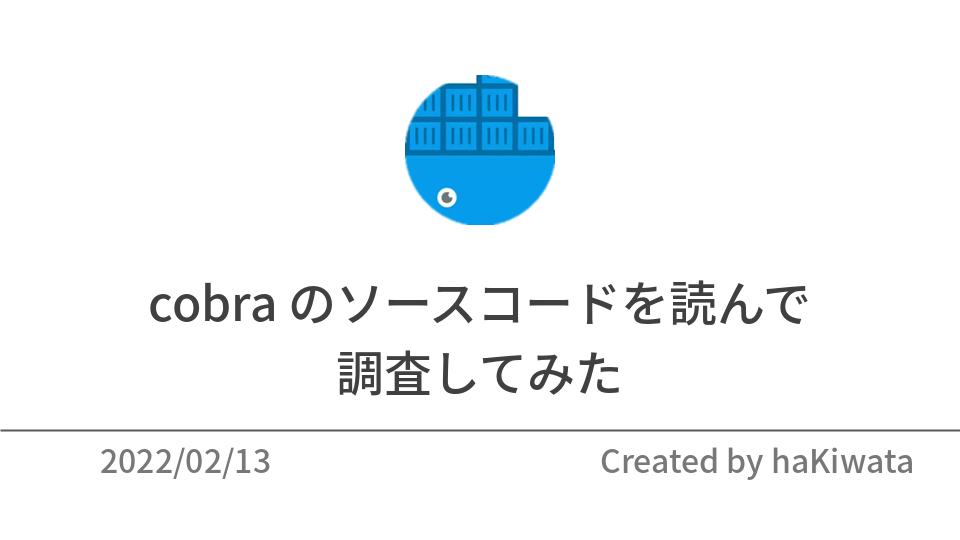
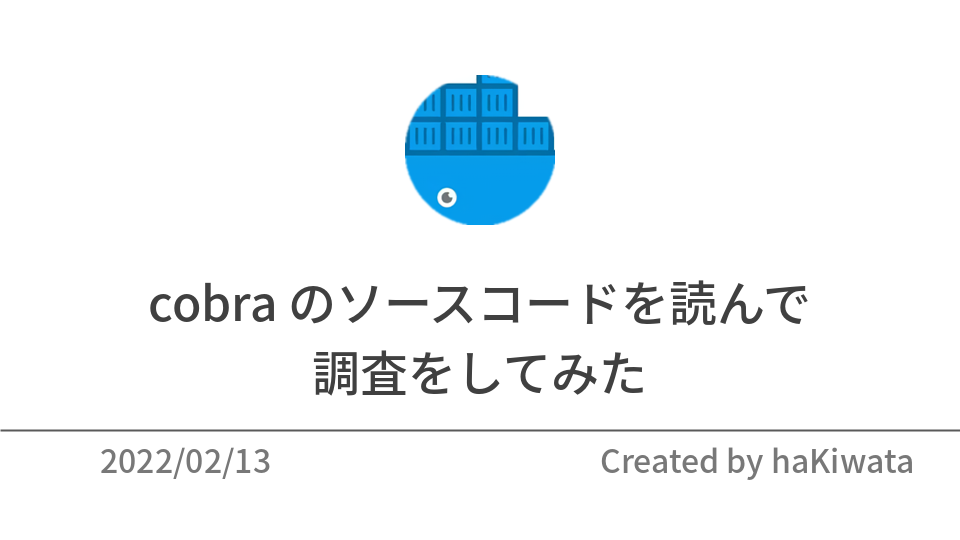
deploy: b7bdc9d21cec0bf29530ab4366555148b691aa41

Changed region(s): [[0.3125, 0.6519, 0.6875, 0.7407]]

diff --git a/post/20220213/index.html b/post/20220213/index.html
@@ -1,8 +1,8 @@
 <!doctype html><html lang=en><head><meta charset=utf-8><meta name=viewport content="width=device-width,initial-scale=1"><meta name=generator content="Hugo 0.83.1"><title>cobra のソースコードを読んで
-調査してみた - haKiwata</title><meta name=description content="概要  こんにちは :) 最近、Golang を書くことにハマっています。その一環で cobra と viper を使って簡単な CLI アプリケーション (gngc) を作ってみました。このアプリケーションを実装する際、様々なネットの記事、公式ドキュメント、そして README.md を読んでみました。しかし、どの実装方法を選択すればわからない場面や出力させたくないエラーメッセージを消す方法がわからない場面などに遭遇することがありました。その際、内部のソースコードを読んで処理の流れや設定の意味などを大まかに調査してみたので、その記録を簡単に残したいと思います。  調査内容  調査内容は以下の 3 点です。   CLI アプリケーションが実行されるまでの流れに関して rootCmd.Run と rootCmd.RunE の違いに関して cobra がデフォルトで出すエラーメッセージを出さない方法に関して  調査内容 1 (cobra の内部実装)  cobra を用いて実装した CLI アプリケーションが実行される大まかな流れを以下の画像のシーケンス図にまとめてみました。(シーケンス図の書き方は完全に正しくはありません &mldr;)  調査内容 2 (rootCmd.Run と rootCmd.RunE の違いに関して)  cobra でアプリケーションを実装する際、cmd/root.go に以下のような初期化を行います。その際、実際に実行されるコマンドは Run や RunE の箇所に関数を定義します。  var rootCmd = &cobra.Command{ Use: &#34;gngc&#34;, Short: &#34;Get and Notify GitHub Contributions&#34;, Long: &#34;A simple command line application to get GitHub contributions from GraphQL API and notify them to IFTTT."><link rel="shortcut icon" href=https://hakiwata.jp/img/images/favicon.ico><link rel=stylesheet href=https://hakiwata.jp/css/ui.css><link rel=stylesheet href=https://hakiwata.jp/css/main.css><link rel=stylesheet href="https://fonts.googleapis.com/css?family=Fira+Mono|Lato|Raleway"><meta property="og:title" content="cobra のソースコードを読んで
-調査してみた"><meta property="og:description" content="概要  こんにちは :) 最近、Golang を書くことにハマっています。その一環で cobra と viper を使って簡単な CLI アプリケーション (gngc) を作ってみました。このアプリケーションを実装する際、様々なネットの記事、公式ドキュメント、そして README.md を読んでみました。しかし、どの実装方法を選択すればわからない場面や出力させたくないエラーメッセージを消す方法がわからない場面などに遭遇することがありました。その際、内部のソースコードを読んで処理の流れや設定の意味などを大まかに調査してみたので、その記録を簡単に残したいと思います。  調査内容  調査内容は以下の 3 点です。   CLI アプリケーションが実行されるまでの流れに関して rootCmd.Run と rootCmd.RunE の違いに関して cobra がデフォルトで出すエラーメッセージを出さない方法に関して  調査内容 1 (cobra の内部実装)  cobra を用いて実装した CLI アプリケーションが実行される大まかな流れを以下の画像のシーケンス図にまとめてみました。(シーケンス図の書き方は完全に正しくはありません &mldr;)  調査内容 2 (rootCmd.Run と rootCmd.RunE の違いに関して)  cobra でアプリケーションを実装する際、cmd/root.go に以下のような初期化を行います。その際、実際に実行されるコマンドは Run や RunE の箇所に関数を定義します。  var rootCmd = &cobra.Command{ Use: &#34;gngc&#34;, Short: &#34;Get and Notify GitHub Contributions&#34;, Long: &#34;A simple command line application to get GitHub contributions from GraphQL API and notify them to IFTTT."><meta property="og:type" content="article"><meta property="og:url" content="https://hakiwata.jp/post/20220213/"><meta property="og:image" content="https://hakiwata.jp/"><meta property="article:section" content="post"><meta property="article:published_time" content="2022-02-12T17:02:25+00:00"><meta property="article:modified_time" content="2022-02-12T17:02:25+00:00"><meta name=twitter:card content="summary_large_image"><meta name=twitter:site content="@bilmnpvovqnmlid"><meta name=twitter:creator content="@bilmnpvovqnmlid"><meta property="twitter:image" content="https://hakiwata.jp/img/images/20220213.png"><meta property="og:title" content="cobra のソースコードを読んで
-調査してみた"><meta property="og:url" content="https://hakiwata.jp/post/20220213/"><meta property="og:image" content="https://hakiwata.jp/img/images/20220213.png"><meta property="og:description" content><script async src="https://www.googletagmanager.com/gtag/js?id=G-YXCYPL25QW"></script><script>var doNotTrack=!1;if(!doNotTrack){window.dataLayer=window.dataLayer||[];function gtag(){dataLayer.push(arguments)}gtag('js',new Date),gtag('config','G-YXCYPL25QW',{anonymize_ip:!1})}</script></head><body><header class="container no-print"><div class=u-header><nav class=bar><ul><li><a href=https://hakiwata.jp/><img class=icon-text src=https://hakiwata.jp/img/prev.svg></a></li><li><a href=https://hakiwata.jp/about>About</a></li><li><a href=https://hakiwata.jp/log>Log</a></li><li><a href=https://hakiwata.jp/post>Post</a></li><li><a href=https://hakiwata.jp/scraps>Scraps</a></li><li><a href=https://hakiwata.jp/tags>Tags</a></li></ul></nav></div></header><main class=container><article><header><hgroup id=brand><h1>cobra のソースコードを読んで
-調査してみた</h1><h5><time datetime="2022-02-12 17:02:25 +0000 UTC">Feb 12, 2022</time>
+調査をしてみた - haKiwata</title><meta name=description content="概要  こんにちは :) 最近、Golang を書くことにハマっています。その一環で cobra と viper を使って簡単な CLI アプリケーション (gngc) を作ってみました。このアプリケーションを実装する際、様々なネットの記事、公式ドキュメント、そして README.md を読んでみました。しかし、どの実装方法を選択すればわからない場面や出力させたくないエラーメッセージを消す方法がわからない場面などに遭遇することがありました。その際、内部のソースコードを読んで処理の流れや設定の意味などを大まかに調査してみたので、その記録を簡単に残したいと思います。  調査内容  調査内容は以下の 3 点です。   CLI アプリケーションが実行されるまでの流れに関して rootCmd.Run と rootCmd.RunE の違いに関して cobra がデフォルトで出すエラーメッセージを出さない方法に関して  調査内容 1 (cobra の内部実装)  cobra を用いて実装した CLI アプリケーションが実行される大まかな流れを以下の画像のシーケンス図にまとめてみました。(シーケンス図の書き方は完全に正しくはありません &mldr;)  調査内容 2 (rootCmd.Run と rootCmd.RunE の違いに関して)  cobra でアプリケーションを実装する際、cmd/root.go に以下のような初期化を行います。その際、実際に実行されるコマンドは Run や RunE の箇所に関数を定義します。  var rootCmd = &cobra.Command{ Use: &#34;gngc&#34;, Short: &#34;Get and Notify GitHub Contributions&#34;, Long: &#34;A simple command line application to get GitHub contributions from GraphQL API and notify them to IFTTT."><link rel="shortcut icon" href=https://hakiwata.jp/img/images/favicon.ico><link rel=stylesheet href=https://hakiwata.jp/css/ui.css><link rel=stylesheet href=https://hakiwata.jp/css/main.css><link rel=stylesheet href="https://fonts.googleapis.com/css?family=Fira+Mono|Lato|Raleway"><meta property="og:title" content="cobra のソースコードを読んで
+調査をしてみた"><meta property="og:description" content="概要  こんにちは :) 最近、Golang を書くことにハマっています。その一環で cobra と viper を使って簡単な CLI アプリケーション (gngc) を作ってみました。このアプリケーションを実装する際、様々なネットの記事、公式ドキュメント、そして README.md を読んでみました。しかし、どの実装方法を選択すればわからない場面や出力させたくないエラーメッセージを消す方法がわからない場面などに遭遇することがありました。その際、内部のソースコードを読んで処理の流れや設定の意味などを大まかに調査してみたので、その記録を簡単に残したいと思います。  調査内容  調査内容は以下の 3 点です。   CLI アプリケーションが実行されるまでの流れに関して rootCmd.Run と rootCmd.RunE の違いに関して cobra がデフォルトで出すエラーメッセージを出さない方法に関して  調査内容 1 (cobra の内部実装)  cobra を用いて実装した CLI アプリケーションが実行される大まかな流れを以下の画像のシーケンス図にまとめてみました。(シーケンス図の書き方は完全に正しくはありません &mldr;)  調査内容 2 (rootCmd.Run と rootCmd.RunE の違いに関して)  cobra でアプリケーションを実装する際、cmd/root.go に以下のような初期化を行います。その際、実際に実行されるコマンドは Run や RunE の箇所に関数を定義します。  var rootCmd = &cobra.Command{ Use: &#34;gngc&#34;, Short: &#34;Get and Notify GitHub Contributions&#34;, Long: &#34;A simple command line application to get GitHub contributions from GraphQL API and notify them to IFTTT."><meta property="og:type" content="article"><meta property="og:url" content="https://hakiwata.jp/post/20220213/"><meta property="og:image" content="https://hakiwata.jp/"><meta property="article:section" content="post"><meta property="article:published_time" content="2022-02-12T17:02:25+00:00"><meta property="article:modified_time" content="2022-02-12T17:02:25+00:00"><meta name=twitter:card content="summary_large_image"><meta name=twitter:site content="@bilmnpvovqnmlid"><meta name=twitter:creator content="@bilmnpvovqnmlid"><meta property="twitter:image" content="https://hakiwata.jp/img/images/20220213.png"><meta property="og:title" content="cobra のソースコードを読んで
+調査をしてみた"><meta property="og:url" content="https://hakiwata.jp/post/20220213/"><meta property="og:image" content="https://hakiwata.jp/img/images/20220213.png"><meta property="og:description" content><script async src="https://www.googletagmanager.com/gtag/js?id=G-YXCYPL25QW"></script><script>var doNotTrack=!1;if(!doNotTrack){window.dataLayer=window.dataLayer||[];function gtag(){dataLayer.push(arguments)}gtag('js',new Date),gtag('config','G-YXCYPL25QW',{anonymize_ip:!1})}</script></head><body><header class="container no-print"><div class=u-header><nav class=bar><ul><li><a href=https://hakiwata.jp/><img class=icon-text src=https://hakiwata.jp/img/prev.svg></a></li><li><a href=https://hakiwata.jp/about>About</a></li><li><a href=https://hakiwata.jp/log>Log</a></li><li><a href=https://hakiwata.jp/post>Post</a></li><li><a href=https://hakiwata.jp/scraps>Scraps</a></li><li><a href=https://hakiwata.jp/tags>Tags</a></li></ul></nav></div></header><main class=container><article><header><hgroup id=brand><h1>cobra のソースコードを読んで
+調査をしてみた</h1><h5><time datetime="2022-02-12 17:02:25 +0000 UTC">Feb 12, 2022</time>
 <span class=no-print>-
 <a href=https://hakiwata.jp/tags/golang>Golang</a>
 <a href=https://hakiwata.jp/tags/cobra>cobra</a>

diff --git a/post/20220131/index.html b/post/20220131/index.html
@@ -16,7 +16,7 @@
 <span></h5></hgroup><hr class=sep></header><h2 id=概要>概要</h2><ul><li>こんにちは :) 先日、1/27 ~ 1/28 に渡って開催された<a href="https://www.ieice.org/ken/program/index.php?tgs_regid=f301afe5515873af934c79186dd9daff49a4a8dd5003607cadecf0bef5630b43&tgid=IEICE-PN">フォトニックネットワーク研究会</a>で、この 1 年で行ってきた研究の発表を行ってきました。今回はその参加記録を残したいと思います。</li></ul><h2 id=参加記録>参加記録</h2><ul><li><p><a href=https://www.ieice.org/ken/paper/20220128fC7Q/>パブリッククラウドにおけるコンテナを用いたSDN光ネットワーク制御</a>という題目でこの 1 年の成果を発表してきました。従来は単一のベンダのみで構成されていた光ネットワークを、マルチベンダな伝送装置から構成される光ネットワークへ分割を促すような研究が近年活発に行われています。イメージとしては、モノリスな Web API をマイクロサービス化するようなものです。こうして、光ネットワークが様々なベンダの装置から構成されると、新たに光ネットワークを制御するためのプラットフォームが必要となります。そこで、そういった光ネットワークを制御するための新しいプラットフォームの提案と性能評価を行うのが我々の研究です。</p></li><li><p>修士 1 年の夏前に <a href=https://www.optica.org/en-us/meetings/osa_meetings/advanced_photonics_congress/program/signal_processing_in_photonic_communications/>Signal Processing in Photonic Communications (SPPCom)</a> という国際会議で発表して以来、人生で 2 度目の体外的な学会発表でした。そのため、発表が始まる直前は少しだけソワソワして緊張しました。発表で話す原稿を考えて 10 回くらい通しで練習していたため、発表が始まってしまえば練習通りな感じでした。発表において良くなかった点を挙げるとすれば、質疑応答で完璧にディフェンスができなかったことです。ただ、修士 1 年の 12 月あたりから研究のテーマをガラッと変えていたので、国内の研究会という 1 つの着地点まで持ってこれたのは良かったです。また、共同研究者の指導教員は、自分の発表を絶賛していたのでホッとしました。</p></li><li><p>発表やそこに至るまでの感想 (Pros/Cons) は以下の通りです。</p><ul><li>定期的な研究のアドバイスや研究会の申込みのアナウンスや発表のリハーサルのスケジューリングの手配などは共同研究者の方たちに非常に助けていただきました。しかし、研究の細かい方向性の決定/論文執筆とそのスケジューリング/発表スライドの作成とそのスケジューリングは全て自分で行いました。共同研究者に迷惑をかけられない駆動でこれらのスケジューリングを行っていたので、自然とメリハリをつけることができましたが、結構大変でした。放置と紙一重である (このやり方を否定しているわけではない。) ので、学生を選ぶやり方やなぁと思っていました :) そのため、社会人になったらどんなメンターあるいは Manager に師事するかはかなり重要な問題だと改めて感じました。</li><li>想定していなかった少々難しい質問が飛んできて、しどろもどろしてしまったのは非常に悔しかったです。ただ、それ以外の質問はサラッと答えることができたのは良かったです。(サラッと答えることができた質問をした方は、阪大の情シスの元 W 研の助教の方だったらしい。)</li><li>質問者や研究会全体の雰囲気を見ていると、世界で闘わないとあんまり意味ないのではないかと薄っすら思いました。指導教員が世界！世界！と言う本当の理由が少し理解できたかもしれません。</li></ul></li><li><p>この発表で課題として痛感したことは以下の通りです。</p><ul><li>(アカデミック|テクニカル)ライティングの技術とプレゼンテーション能力を更に向上させたいと感じました。発表スライドに関しては、作成段階で指導教員からかなり指摘を受けたので、自分の Week Point である再度認知することができました。そのため、社会人になってこういう発表する機会があれば、果敢に挑戦していきたいです。</li><li>質疑応答で答えようがない質問が来たとしても、しどろもどろせず自信を持って応戦しなければならないと痛感しました。最悪、ドンピシャな回答でなくて論点を微妙にずらしてでも答えるようなファイティングポーズは見せるべきで、黙ってしまうこが一番の悪であると痛感しました。これは、場数に依存する気もするので、議論する際に日常的に意識して改善していきたいです。</li></ul></li></ul><h2 id=最後に>最後に</h2><ul><li>今回の発表では、自分の発表の時間帯が朝ということもあり、聴講人数が20人ぐらいでした。これでは、注目度以前の問題なので、次はそれ以上の聴講者のいるオフィシャルな場で発表がしたいです。発表後、指導教員と雑談をしていて、学会の感想に対する怖さもありましたが、研究のやる意義や業界における自分の取るポジショニングなどに関しては思った以上に真剣に吟味しないといけないと感じました。</li></ul></article><nav class="no-print post-nav"><a class=prev-post href=https://hakiwata.jp/post/20220114/><img class=icon-text src=https://hakiwata.jp/img/prev.svg>Vercel のドキュメントの修正を
 Vercel Support に依頼してみた</a>
 <a class=next-post href=https://hakiwata.jp/post/20220213/>cobra のソースコードを読んで
-調査してみた<img class=icon-text src=https://hakiwata.jp/img/next.svg></a></nav><hr class=sep></main><footer class="container no-print"><div class=u-footer><a href=https://github.com/dilmnqvovpnmlib><img class=icon-social src=https://hakiwata.jp/img/github.svg alt=Github></a>
+調査をしてみた<img class=icon-text src=https://hakiwata.jp/img/next.svg></a></nav><hr class=sep></main><footer class="container no-print"><div class=u-footer><a href=https://github.com/dilmnqvovpnmlib><img class=icon-social src=https://hakiwata.jp/img/github.svg alt=Github></a>
 <a href=https://twitter.com/bilmnpvovqnmlid><img class=icon-social src=https://hakiwata.jp/img/twitter.svg alt=Twitter></a>
 <a href=https://hakiwata.jp/index.xml target=_blank><img class=icon-social src=https://hakiwata.jp/img/feed.svg alt=Feed></a><p>&copy; 2021 haKiwata</p><a href=#brand><img class=icon-text src=https://hakiwata.jp/img/toup.svg alt="To Up">
 <span>Back to Up</span></a></div></footer></body></html>

diff --git a/tags/cobra/index.html b/tags/cobra/index.html
@@ -1,6 +1,6 @@
 <!doctype html><html lang=en><head><meta charset=utf-8><meta name=viewport content="width=device-width,initial-scale=1"><meta name=generator content="Hugo 0.83.1"><title>cobra - haKiwata</title><meta name=description content><link rel="shortcut icon" href=https://hakiwata.jp/img/images/favicon.ico><link rel=stylesheet href=https://hakiwata.jp/css/ui.css><link rel=stylesheet href=https://hakiwata.jp/css/main.css><link rel=stylesheet href="https://fonts.googleapis.com/css?family=Fira+Mono|Lato|Raleway"><meta property="og:title" content="cobra"><meta property="og:description" content="haKiwata's Website."><meta property="og:type" content="website"><meta property="og:url" content="https://hakiwata.jp/tags/cobra/"><meta property="og:image" content="https://hakiwata.jp/"><meta name=twitter:card content="summary_large_image"><meta name=twitter:site content="@bilmnpvovqnmlid"><meta name=twitter:creator content="@bilmnpvovqnmlid"><meta property="twitter:image" content="https://hakiwata.jp/img/images/kiwata_partly.png"><meta property="og:title" content="cobra"><meta property="og:url" content="https://hakiwata.jp/tags/cobra/"><meta property="og:image" content="https://hakiwata.jp/img/images/kiwata_partly.png"><meta property="og:description" content><script async src="https://www.googletagmanager.com/gtag/js?id=G-YXCYPL25QW"></script><script>var doNotTrack=!1;if(!doNotTrack){window.dataLayer=window.dataLayer||[];function gtag(){dataLayer.push(arguments)}gtag('js',new Date),gtag('config','G-YXCYPL25QW',{anonymize_ip:!1})}</script></head><body><header class="container no-print"><div class=u-header><nav class=bar><ul><li><a href=https://hakiwata.jp/><img class=icon-text src=https://hakiwata.jp/img/prev.svg></a></li><li><a href=https://hakiwata.jp/about>About</a></li><li><a href=https://hakiwata.jp/log>Log</a></li><li><a href=https://hakiwata.jp/post>Post</a></li><li><a href=https://hakiwata.jp/scraps>Scraps</a></li><li><a href=https://hakiwata.jp/tags>Tags</a></li></ul></nav></div></header><main class=container><article><header><hgroup id=brand><h1>Cobra</h1></hgroup><hr class=sep></header><ul class=no-bullet><li><span><time datetime="2022-02-12 17:02:25 +0000 UTC">Feb 12, 2022</time></span>
 <a href=https://hakiwata.jp/post/20220213/>cobra のソースコードを読んで
-調査してみた</a></li></ul></article><hr class=sep></main><footer class="container no-print"><div class=u-footer><a href=https://github.com/dilmnqvovpnmlib><img class=icon-social src=https://hakiwata.jp/img/github.svg alt=Github></a>
+調査をしてみた</a></li></ul></article><hr class=sep></main><footer class="container no-print"><div class=u-footer><a href=https://github.com/dilmnqvovpnmlib><img class=icon-social src=https://hakiwata.jp/img/github.svg alt=Github></a>
 <a href=https://twitter.com/bilmnpvovqnmlid><img class=icon-social src=https://hakiwata.jp/img/twitter.svg alt=Twitter></a>
 <a href=https://hakiwata.jp/index.xml target=_blank><img class=icon-social src=https://hakiwata.jp/img/feed.svg alt=Feed></a><p>&copy; 2021 haKiwata</p><a href=#brand><img class=icon-text src=https://hakiwata.jp/img/toup.svg alt="To Up">
 <span>Back to Up</span></a></div></footer></body></html>

diff --git a/tags/golang/index.html b/tags/golang/index.html
@@ -1,6 +1,6 @@
 <!doctype html><html lang=en><head><meta charset=utf-8><meta name=viewport content="width=device-width,initial-scale=1"><meta name=generator content="Hugo 0.83.1"><title>Golang - haKiwata</title><meta name=description content><link rel="shortcut icon" href=https://hakiwata.jp/img/images/favicon.ico><link rel=stylesheet href=https://hakiwata.jp/css/ui.css><link rel=stylesheet href=https://hakiwata.jp/css/main.css><link rel=stylesheet href="https://fonts.googleapis.com/css?family=Fira+Mono|Lato|Raleway"><meta property="og:title" content="Golang"><meta property="og:description" content="haKiwata's Website."><meta property="og:type" content="website"><meta property="og:url" content="https://hakiwata.jp/tags/golang/"><meta property="og:image" content="https://hakiwata.jp/"><meta name=twitter:card content="summary_large_image"><meta name=twitter:site content="@bilmnpvovqnmlid"><meta name=twitter:creator content="@bilmnpvovqnmlid"><meta property="twitter:image" content="https://hakiwata.jp/img/images/kiwata_partly.png"><meta property="og:title" content="Golang"><meta property="og:url" content="https://hakiwata.jp/tags/golang/"><meta property="og:image" content="https://hakiwata.jp/img/images/kiwata_partly.png"><meta property="og:description" content><script async src="https://www.googletagmanager.com/gtag/js?id=G-YXCYPL25QW"></script><script>var doNotTrack=!1;if(!doNotTrack){window.dataLayer=window.dataLayer||[];function gtag(){dataLayer.push(arguments)}gtag('js',new Date),gtag('config','G-YXCYPL25QW',{anonymize_ip:!1})}</script></head><body><header class="container no-print"><div class=u-header><nav class=bar><ul><li><a href=https://hakiwata.jp/><img class=icon-text src=https://hakiwata.jp/img/prev.svg></a></li><li><a href=https://hakiwata.jp/about>About</a></li><li><a href=https://hakiwata.jp/log>Log</a></li><li><a href=https://hakiwata.jp/post>Post</a></li><li><a href=https://hakiwata.jp/scraps>Scraps</a></li><li><a href=https://hakiwata.jp/tags>Tags</a></li></ul></nav></div></header><main class=container><article><header><hgroup id=brand><h1>Golang</h1></hgroup><hr class=sep></header><ul class=no-bullet><li><span><time datetime="2022-02-12 17:02:25 +0000 UTC">Feb 12, 2022</time></span>
 <a href=https://hakiwata.jp/post/20220213/>cobra のソースコードを読んで
-調査してみた</a></li><li><span><time datetime="2022-01-15 16:20:48 +0000 UTC">Jan 15, 2022</time></span>
+調査をしてみた</a></li><li><span><time datetime="2022-01-15 16:20:48 +0000 UTC">Jan 15, 2022</time></span>
 <a href=https://hakiwata.jp/log/golang/>Golang</a></li></ul></article><hr class=sep></main><footer class="container no-print"><div class=u-footer><a href=https://github.com/dilmnqvovpnmlib><img class=icon-social src=https://hakiwata.jp/img/github.svg alt=Github></a>
 <a href=https://twitter.com/bilmnpvovqnmlid><img class=icon-social src=https://hakiwata.jp/img/twitter.svg alt=Twitter></a>
 <a href=https://hakiwata.jp/index.xml target=_blank><img class=icon-social src=https://hakiwata.jp/img/feed.svg alt=Feed></a><p>&copy; 2021 haKiwata</p><a href=#brand><img class=icon-text src=https://hakiwata.jp/img/toup.svg alt="To Up">

diff --git a/post/index.html b/post/index.html
@@ -1,6 +1,6 @@
 <!doctype html><html lang=en><head><meta charset=utf-8><meta name=viewport content="width=device-width,initial-scale=1"><meta name=generator content="Hugo 0.83.1"><title>Blog - haKiwata</title><meta name=description content><link rel="shortcut icon" href=https://hakiwata.jp/img/images/favicon.ico><link rel=stylesheet href=https://hakiwata.jp/css/ui.css><link rel=stylesheet href=https://hakiwata.jp/css/main.css><link rel=stylesheet href="https://fonts.googleapis.com/css?family=Fira+Mono|Lato|Raleway"><meta property="og:title" content="Blog"><meta property="og:description" content="haKiwata's Website."><meta property="og:type" content="website"><meta property="og:url" content="https://hakiwata.jp/post/"><meta property="og:image" content="https://hakiwata.jp/"><meta name=twitter:card content="summary_large_image"><meta name=twitter:site content="@bilmnpvovqnmlid"><meta name=twitter:creator content="@bilmnpvovqnmlid"><meta property="twitter:image" content="https://hakiwata.jp/img/images/kiwata_partly.png"><meta property="og:title" content="Blog"><meta property="og:url" content="https://hakiwata.jp/post/"><meta property="og:image" content="https://hakiwata.jp/img/images/kiwata_partly.png"><meta property="og:description" content><script async src="https://www.googletagmanager.com/gtag/js?id=G-YXCYPL25QW"></script><script>var doNotTrack=!1;if(!doNotTrack){window.dataLayer=window.dataLayer||[];function gtag(){dataLayer.push(arguments)}gtag('js',new Date),gtag('config','G-YXCYPL25QW',{anonymize_ip:!1})}</script></head><body><header class="container no-print"><div class=u-header><nav class=bar><ul><li><a href=https://hakiwata.jp/><img class=icon-text src=https://hakiwata.jp/img/prev.svg></a></li><li><a href=https://hakiwata.jp/about>About</a></li><li><a href=https://hakiwata.jp/log>Log</a></li><li><a href=https://hakiwata.jp/post>Post</a></li><li><a href=https://hakiwata.jp/scraps>Scraps</a></li><li><a href=https://hakiwata.jp/tags>Tags</a></li></ul></nav></div></header><main class=container><article><header><hgroup id=brand><h1>Blog</h1></hgroup><hr class=sep></header><ul class=no-bullet><li><span><time datetime="2022-02-12 17:02:25 +0000 UTC">Feb 12, 2022</time></span>
 <a href=https://hakiwata.jp/post/20220213/>cobra のソースコードを読んで
-調査してみた</a></li><li><span><time datetime="2022-01-30 16:59:20 +0000 UTC">Jan 30, 2022</time></span>
+調査をしてみた</a></li><li><span><time datetime="2022-01-30 16:59:20 +0000 UTC">Jan 30, 2022</time></span>
 <a href=https://hakiwata.jp/post/20220131/>修士課程で初めて
 国内の研究会で発表をしてきた</a></li><li><span><time datetime="2022-01-13 23:09:26 +0000 UTC">Jan 13, 2022</time></span>
 <a href=https://hakiwata.jp/post/20220114/>Vercel のドキュメントの修正を

diff --git a/index.html b/index.html
@@ -1,6 +1,6 @@
 <!doctype html><html lang=en><head><meta charset=utf-8><meta name=viewport content="width=device-width,initial-scale=1"><meta name=generator content="Hugo 0.83.1"><title>haKiwata</title><meta name=description content="haKiwata's Website."><link rel="shortcut icon" href=https://hakiwata.jp/img/images/favicon.ico><link rel=stylesheet href=https://hakiwata.jp/css/ui.css><link rel=stylesheet href=https://hakiwata.jp/css/main.css><link rel=stylesheet href="https://fonts.googleapis.com/css?family=Fira+Mono|Lato|Raleway"><meta property="og:title" content="haKiwata"><meta property="og:description" content="haKiwata's Website."><meta property="og:type" content="website"><meta property="og:url" content="https://hakiwata.jp/"><meta property="og:image" content="https://hakiwata.jp/"><meta name=twitter:card content="summary_large_image"><meta name=twitter:site content="@bilmnpvovqnmlid"><meta name=twitter:creator content="@bilmnpvovqnmlid"><meta property="twitter:image" content="https://hakiwata.jp/img/images/kiwata_partly.png"><meta property="og:title" content="haKiwata"><meta property="og:url" content="https://hakiwata.jp/"><meta property="og:image" content="https://hakiwata.jp/img/images/kiwata_partly.png"><meta property="og:description" content><script async src="https://www.googletagmanager.com/gtag/js?id=G-YXCYPL25QW"></script><script>var doNotTrack=!1;if(!doNotTrack){window.dataLayer=window.dataLayer||[];function gtag(){dataLayer.push(arguments)}gtag('js',new Date),gtag('config','G-YXCYPL25QW',{anonymize_ip:!1})}</script></head><body><header class="container no-print"><div class=u-header><nav class=bar><ul><li><a href=https://hakiwata.jp/about>About</a></li><li><a href=https://hakiwata.jp/log>Log</a></li><li><a href=https://hakiwata.jp/post>Post</a></li><li><a href=https://hakiwata.jp/scraps>Scraps</a></li><li><a href=https://hakiwata.jp/tags>Tags</a></li></ul></nav></div></header><main class=container><article><header><hgroup id=brand><h1>haKiwata</h1><h5>Welcome to my website !</h5></hgroup><hr class=sep></header><section><h4>Latest Posts</h4><ul class=no-bullet><li><span><time datetime="2022-02-12 17:02:25 +0000 UTC">Feb 12, 2022</time></span>
 <a href=https://hakiwata.jp/post/20220213/>cobra のソースコードを読んで
-調査してみた</a></li><li><span><time datetime="2022-01-30 16:59:20 +0000 UTC">Jan 30, 2022</time></span>
+調査をしてみた</a></li><li><span><time datetime="2022-01-30 16:59:20 +0000 UTC">Jan 30, 2022</time></span>
 <a href=https://hakiwata.jp/post/20220131/>修士課程で初めて
 国内の研究会で発表をしてきた</a></li><li><span><time datetime="2022-01-13 23:09:26 +0000 UTC">Jan 13, 2022</time></span>
 <a href=https://hakiwata.jp/post/20220114/>Vercel のドキュメントの修正を
